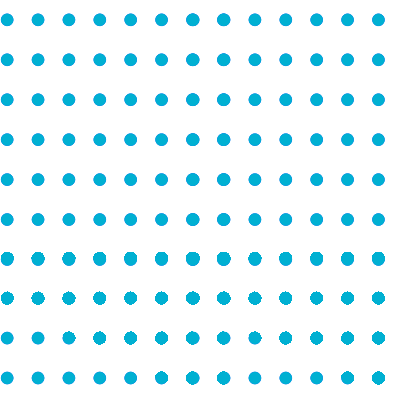
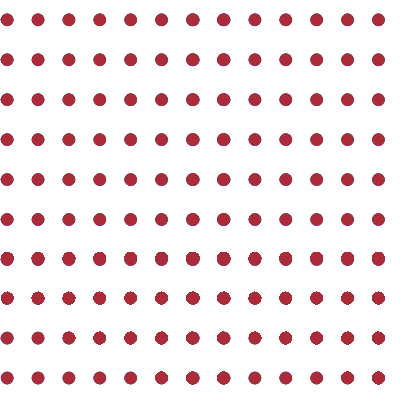
change images

diff --git a/src/scss/_custom.scss b/src/scss/_custom.scss
@@ -51,7 +51,7 @@
   }
 
   &:active {
-    background-color: #01BDE2;
+    background-color: #AC2B39;
     color: whitesmoke;
 
     .nav-icon {
@@ -61,7 +61,7 @@
 }
 
 .sidebar-nav .nav-link.active {
-  background-color: #01BDE2;
+  background-color: #AC2B39;
   color: whitesmoke;
 
   .nav-icon {
@@ -109,7 +109,7 @@
 }
 
 .breadcrumb-item a {
-  color: #01BDE2;
+  color: #AC2B39;
   text-decoration: none;
 }
 
@@ -119,7 +119,7 @@
 }
 
 .aFooter {
-  color: #01BDE2;
+  color: #AC2B39;
   text-decoration: none;
 }
 
@@ -523,11 +523,11 @@
 }
 .btn-blue {
 
-  --cui-btn-shadow: #00BEE4;
+  --cui-btn-shadow: #AC2B39;
   font-weight: 500;
   color: #F7F7F7;
-  background-color: #01BDE2;
-  border: 1px solid #00BEE4;
+  background-color: #AC2B39;
+  border: 1px solid #782331;
   text-decoration: none !important;
 
   display: flex;

diff --git a/src/views/pages/landingPage/LandingPage.js b/src/views/pages/landingPage/LandingPage.js
@@ -17,11 +17,6 @@ const Login = (props) => {
   const reqSvgs = require.context('../../../assets/landingPage/shapes', false, /.png$/);
   const allSvgFilepaths = reqSvgs.keys();
 
-  useEffect(() => {
-    consultarTipos();
-  }, [])
-
-
   const [state, setState] = useState(
     {
       areaId: 0,
@@ -70,13 +65,7 @@ const Login = (props) => {
               </div>
               <div className="linksL">
                 <ul>
-                  <li className='me-4 ms-1'>
-                    <LinkScroll to={"support"}>
-                      <a className="">Soporte Técnico</a>
-                    </LinkScroll>
-                  </li>
                   <li className='me-1 ms-1'>
-
                     <Link to={"/register"} >
                       <a className="">Registrarse</a>
                     </Link>

diff --git a/src/scss/_variables.scss b/src/scss/_variables.scss
@@ -77,7 +77,7 @@
 
 // fusv-disable
 // $primary-dark:  #1f1498 !default;
- $primary-base:  #01BDE2 !default;
+ $primary-base:  #AC2B39 !default;
 // $primary-50:    #988fed !default;
 // $primary-25:    #ccc7f6 !default;
 
